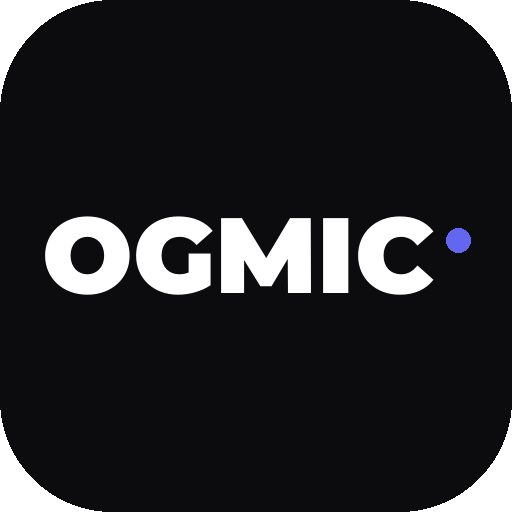
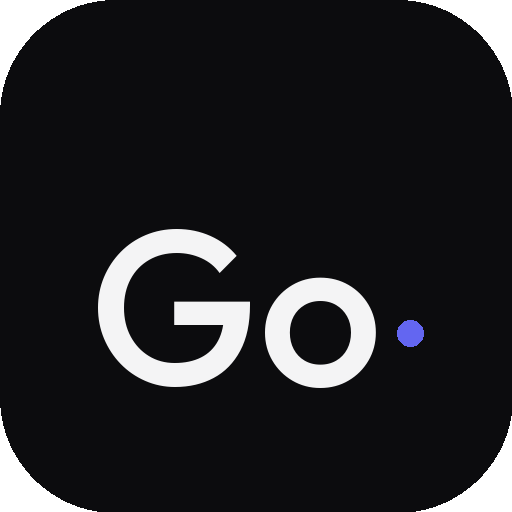
feat(branding): elegant Go mark with medium typography, full app name Gomic, and custom Android splash

Changed region(s): [[0.0625, 0.4062, 0.8438, 0.7812], [0.875, 0.4375, 0.9375, 0.5], [0.7812, 0.625, 0.8438, 0.6875]]

diff --git a/src/shared/components/SplashScreen.tsx b/src/shared/components/SplashScreen.tsx
@@ -1,0 +1,69 @@
+import React, { useEffect, useState } from 'react';
+import { useThemeStore } from '../../core/theme/useThemeStore';
+
+interface SplashScreenProps {
+  onFinish?: () => void;
+}
+
+export const SplashScreen: React.FC<SplashScreenProps> = ({ onFinish }) => {
+  const [isFading, setIsFading] = useState(false);
+  const [isRemoved, setIsRemoved] = useState(false);
+  const { primaryColor } = useThemeStore();
+
+  useEffect(() => {
+    // Breve presentación personalizada para sincronía visual limpia
+    const fadeTimer = setTimeout(() => {
+      setIsFading(true);
+      const removeTimer = setTimeout(() => {
+        setIsRemoved(true);
+        onFinish?.();
+      }, 350);
+      return () => clearTimeout(removeTimer);
+    }, 650);
+
+    return () => clearTimeout(fadeTimer);
+  }, [onFinish]);
+
+  if (isRemoved) return null;
+
+  return (
+    <aside
+      className={`fixed inset-0 z-50 flex flex-col items-center justify-center bg-[#0C0C0E] select-none transition-opacity duration-300 ease-out ${
+        isFading ? 'opacity-0 pointer-events-none' : 'opacity-100'
+      }`}
+      aria-hidden="true"
+    >
+      <div className="flex flex-col items-center justify-center text-center">
+        {/* Isotipo distintivo Go. con tipografía mediana */}
+        <div className="inline-flex items-center font-brand font-medium text-6xl sm:text-7xl tracking-tight text-[#F4F4F5] mb-2">
+          <span>Go</span>
+          <span
+            className="inline-block w-2.5 h-2.5 rounded-full ml-1.5 transition-colors"
+            style={{ backgroundColor: primaryColor.hex }}
+          />
+        </div>
+
+        {/* Nombre completo de la aplicación */}
+        <span className="font-brand font-medium text-lg text-zinc-300 tracking-normal mb-3">
+          Gomic
+        </span>
+
+        {/* Separador lineal sutil */}
+        <div className="w-9 h-[1px] bg-zinc-800 mb-2.5" />
+
+        {/* Subtítulo descriptivo */}
+        <span className="text-xs text-zinc-500 font-normal">
+          Lector de cómics
+        </span>
+      </div>
+
+      {/* Indicador de carga sutil e integrado */}
+      <div className="absolute bottom-12 w-24 h-[1.5px] bg-zinc-900 rounded-full overflow-hidden">
+        <div
+          className="h-full rounded-full animate-pulse w-full"
+          style={{ backgroundColor: primaryColor.hex }}
+        />
+      </div>
+    </aside>
+  );
+};

diff --git a/index.html b/index.html
@@ -6,9 +6,9 @@
     <meta name="viewport" content="width=device-width, initial-scale=1.0, maximum-scale=1.0, user-scalable=no, viewport-fit=cover" />
     <link rel="preconnect" href="https://fonts.googleapis.com" />
     <link rel="preconnect" href="https://fonts.gstatic.com" crossorigin />
-    <link href="https://fonts.googleapis.com/css2?family=Montserrat:wght@900&display=swap" rel="stylesheet" />
-    <title>OGMIC — Lector de Cómics</title>
-    <meta name="description" content="OGMIC — Lector de cómics moderno con soporte para CBZ, CBR, Webtoon y lectura fluida." />
+    <link href="https://fonts.googleapis.com/css2?family=Outfit:wght@400;500;600&family=Plus+Jakarta+Sans:wght@400;500;600&display=swap" rel="stylesheet" />
+    <title>Gomic — Lector de Cómics</title>
+    <meta name="description" content="Gomic — Lector de cómics moderno con soporte para CBZ, CBR, Webtoon y lectura fluida." />
     <meta name="theme-color" content="#0c0c0e" />
   </head>
   <body class="overflow-x-hidden w-full max-w-full">

diff --git a/src/App.tsx b/src/App.tsx
@@ -9,6 +9,7 @@ import { AnalyticsView } from './features/analytics/components/AnalyticsView';
 import { SettingsView } from './features/settings/components/SettingsView';
 import { ReaderViewport } from './features/reader/components/ReaderViewport';
 import { ImportProgressModal } from './features/library/components/ImportProgressModal';
+import { SplashScreen } from './shared/components/SplashScreen';
 import { useLibraryStore } from './features/library/stores/useLibraryStore';
 import { useLibrary } from './features/library/hooks/useLibrary';
 import { useDirectoryScanner } from './features/library/hooks/useDirectoryScanner';
@@ -172,6 +173,9 @@ export function App() {
             {importProgress && <ImportProgressModal progress={importProgress} />}
           </div>
         )}
+
+        {/* Pantalla de bienvenida / Splash personalizada */}
+        <SplashScreen />
       </div>
     </div>
   );

diff --git a/src/shared/components/AppNavigation.tsx b/src/shared/components/AppNavigation.tsx
@@ -24,12 +24,12 @@ export const AppNavigation: React.FC<AppNavigationProps> = ({
   return (
     <header className="sticky top-0 z-30 w-full max-w-full bg-gradient-to-b from-black/60 via-black/20 to-transparent transition-colors">
       <div className="mx-auto flex max-w-7xl items-center justify-between gap-3 px-4 sm:px-6 lg:px-8 py-3.5 sm:py-4">
-        {/* Logotipo de marca OGMIC distintivo */}
+        {/* Logotipo de marca Go / Gomic */}
         <button
           type="button"
           onClick={() => onTabChange('home')}
           className="flex items-center text-left focus:outline-none cursor-pointer shrink-0"
-          aria-label="Ir a Inicio - OGMIC"
+          aria-label="Ir a Inicio - Gomic"
         >
           <BrandLogo size="md" />
         </button>

diff --git a/src/shared/components/BrandLogo.tsx b/src/shared/components/BrandLogo.tsx
@@ -23,17 +23,17 @@ export const BrandLogo: React.FC<BrandLogoProps> = ({
 
   const dotSizes = {
     sm: 'h-1.5 w-1.5 ml-1 mb-0.5',
-    md: 'h-2 w-2 ml-1.5 mb-1',
-    lg: 'h-3 w-3 ml-2 mb-1.5',
-    xl: 'h-3.5 w-3.5 ml-2.5 mb-2',
+    md: 'h-2 w-2 ml-1.5 mb-0.5',
+    lg: 'h-2.5 w-2.5 ml-2 mb-1',
+    xl: 'h-3.5 w-3.5 ml-2.5 mb-1',
   };
 
   return (
     <div
-      className={`inline-flex items-center font-brand font-black select-none ${sizeStyles[size]} ${className}`}
+      className={`inline-flex items-center font-brand font-medium select-none ${sizeStyles[size]} ${className}`}
     >
       <span className="text-white transition-opacity hover:opacity-90">
-        OGMIC
+        Go
       </span>
       {showDot && (
         <span

diff --git a/src/features/settings/components/SettingsView.tsx b/src/features/settings/components/SettingsView.tsx
@@ -167,7 +167,7 @@ export const SettingsView: React.FC<SettingsViewProps> = ({
       {/* Sección 4: Información de la Aplicación */}
       <section className="text-xs text-zinc-500 dark:text-zinc-400 flex flex-col gap-1.5">
         <BrandLogo size="md" />
-        <span>Versión 1.0.10 • Lector de cómics minimalista de alto rendimiento</span>
+        <span>Gomic • Versión 1.0.12 • Lector de cómics minimalista de alto rendimiento</span>
         <span>Soporte para archivos .cbz, .cbr y formato Webtoon continuo</span>
       </section>
     </div>

diff --git a/src/index.css b/src/index.css
@@ -4,9 +4,9 @@
 
 @layer utilities {
   .font-brand {
-    font-family: 'Montserrat', -apple-system, BlinkMacSystemFont, "Segoe UI", sans-serif;
-    font-weight: 900;
-    letter-spacing: -0.04em;
+    font-family: 'Outfit', 'Plus Jakarta Sans', -apple-system, BlinkMacSystemFont, "Segoe UI", sans-serif;
+    font-weight: 500;
+    letter-spacing: -0.02em;
   }
 }
 

diff --git a/capacitor.config.ts b/capacitor.config.ts
@@ -2,7 +2,7 @@ import type { CapacitorConfig } from '@capacitor/cli';
 
 const config: CapacitorConfig = {
   appId: 'com.comicread.app',
-  appName: 'OGMIC',
+  appName: 'Gomic',
   webDir: 'dist',
   server: {
     androidScheme: 'https',
